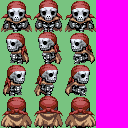
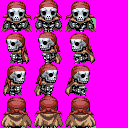
Filled in some entity classes

Changed region(s): [[0.0, 0.0, 0.375, 1.0], [0.375, 0.0, 0.75, 1.0]]

diff --git a/ScrumGame/src/View/SpriteSheet.java b/ScrumGame/src/View/SpriteSheet.java
@@ -21,27 +21,33 @@ public class SpriteSheet {
 	Texture texture;
 	
 	public SpriteSheet(String fileName, Vector2 start, Vector2 end, int frameHeight, int frameWidth) {
-		texture = new Texture(Gdx.files.internal(fileName));
-		texture.setFilter(TextureFilter.Linear, TextureFilter.MipMapLinearNearest);
 		this.start = start;
 		this.end = end;
+		this.frameWidth = frameWidth;
+		this.frameHeight = frameHeight;
+		
+		texture = new Texture(Gdx.files.internal(fileName));
+		texture.setFilter(TextureFilter.Linear, TextureFilter.MipMapLinearNearest);
+		
 		numRow = (int)(end.y - start.y);
 		numCol = (int)(end.x - start.x);
 	}
 	
 	public Sprite getFrame(int frameNum) {
-		Vector2 framePoint = new Vector2((frameNum / numRow), (frameNum % numCol));
+		Vector2 framePoint = new Vector2((frameNum / numCol), (frameNum % numCol));
 		int left = (int)(start.x + framePoint.x) * frameHeight; 		
 		int down = (int)(start.y + framePoint.y) * frameWidth;
 		TextureRegion region = new TextureRegion(texture, left, down, frameWidth, frameHeight);
 		
 		Sprite sprite = new Sprite(region);
 		
-		sprite.setSize(frameHeight/GameSettings.getScreenHeight( ), frameWidth/GameSettings.getScreenWidth( ));
+		sprite.setSize(frameHeight/GameSettings.getScreenHeight( ), frameWidth/GameSettings.getScreenHeight( ));
 		sprite.setOrigin(0, 0);
 		
 		return sprite;
 	}
 
-	Sprite spriteSheet;
+	public int getNumFrames() {
+		return numRow * numCol;
+	}
 }

diff --git a/ScrumGame/src/View/Drawer.java b/ScrumGame/src/View/Drawer.java
@@ -26,12 +26,14 @@ public class Drawer {
 		camera = new OrthographicCamera(1, GameSettings.getScreenHeight( ) / GameSettings.getScreenWidth( ));
         camera.update();
 		batch = new SpriteBatch();
+		batch.enableBlending();
 	}
 	
 	public void draw( ) {
 		setupDisplay( );		
 		batch.begin();		
 		drawMap();
+		drawEntities( );
 		batch.end();
 	}
 	public void drawMap() {		
@@ -51,6 +53,13 @@ public class Drawer {
 				Sprite sprite = getTileFromHeight(map.values[x+tileOffsetX][y+tileOffsetY]).getSprite();
 				drawAtLocation(sprite, x * TILE_SIZE - viewOffset.x, y * TILE_SIZE - viewOffset.y);
 			}
+		}
+	}
+	public void drawEntities() {
+		SpriteSheet sheet = MainGame.getTextureRepo().getSpriteSheet(SheetType.Monster);
+		for (int x = 0; x < sheet.getNumFrames(); x++) {
+			Sprite sprite = sheet.getFrame(x);
+			drawAtLocation(sprite, x*TILE_SIZE, 0);
 		}
 	}
 	private void drawAtLocation(Sprite sprite, float x, float y) {

diff --git a/ScrumGame/src/View/TextureRepository.java b/ScrumGame/src/View/TextureRepository.java
@@ -1,6 +1,5 @@
 package View;
 
-import java.awt.Point;
 import java.util.HashMap;
 
 import com.badlogic.gdx.math.Vector2;
@@ -17,12 +16,15 @@ public class TextureRepository {
 		tileMap.put(type, new SpriteHelper(fileName));
 	}
 	private void addToSheetMap(SheetType type, String fileName, int frameHeight, int frameWidth) {
-		//sheetMap.put(type, new SpriteSheet(fileName, new Vector2(0,0), new Vector2(3,4),frameHeight, frameWidth));
+		sheetMap.put(type, new SpriteSheet(fileName, new Vector2(0,0), new Vector2(3,4),frameHeight, frameWidth));
 	}
 	public SpriteHelper getTile(TextureType type) {
 		return tileMap.get(type);
 	}
-	public void dispose() {	
-		
+	public SpriteSheet getSpriteSheet(SheetType type) {
+		return sheetMap.get(type);
 	}
+	public void dispose() {	
+		//TODO
+	}	
 }

diff --git a/ScrumGame/src/Data/GameSettings.java b/ScrumGame/src/Data/GameSettings.java
@@ -1,19 +1,12 @@
 package Data;
 
-public class GameSettings {
-	private static int screenWidth;
-	private static int screenHeight;
-	
-	public static int getScreenWidth() {
-		return screenWidth;
+import com.badlogic.gdx.Gdx;
+
+public class GameSettings {	
+	public static float getScreenWidth() {
+		return Gdx.graphics.getWidth();
 	}
-	public static void setScreenWidth(int newScreenWidth) {
-		screenWidth = newScreenWidth;
-	}
-	public static int getScreenHeight() {
-		return screenHeight;
-	}
-	public static void setScreenHeight(int newScreenHeight) {
-		screenHeight = newScreenHeight;
+	public static float getScreenHeight() {
+		return Gdx.graphics.getHeight();
 	}
 }

diff --git a/ScrumGame/src/com/me/mygdxgame/MainGame.java b/ScrumGame/src/com/me/mygdxgame/MainGame.java
@@ -1,6 +1,5 @@
 package com.me.mygdxgame;
 
-import Data.GameSettings;
 import Data.HeightMap;
 import View.Drawer;
 import View.GameInput;
@@ -16,10 +15,7 @@ public class MainGame implements ApplicationListener {
 	private GameInput gameInput;
 
 	@Override
-	public void create() {
-		GameSettings.setScreenWidth(Gdx.graphics.getWidth());
-		GameSettings.setScreenHeight(Gdx.graphics.getHeight());
-		
+	public void create() {		
 		textureRepo = new TextureRepository();
 		
 		map = HeightMap.randomMap(400, 400);		
